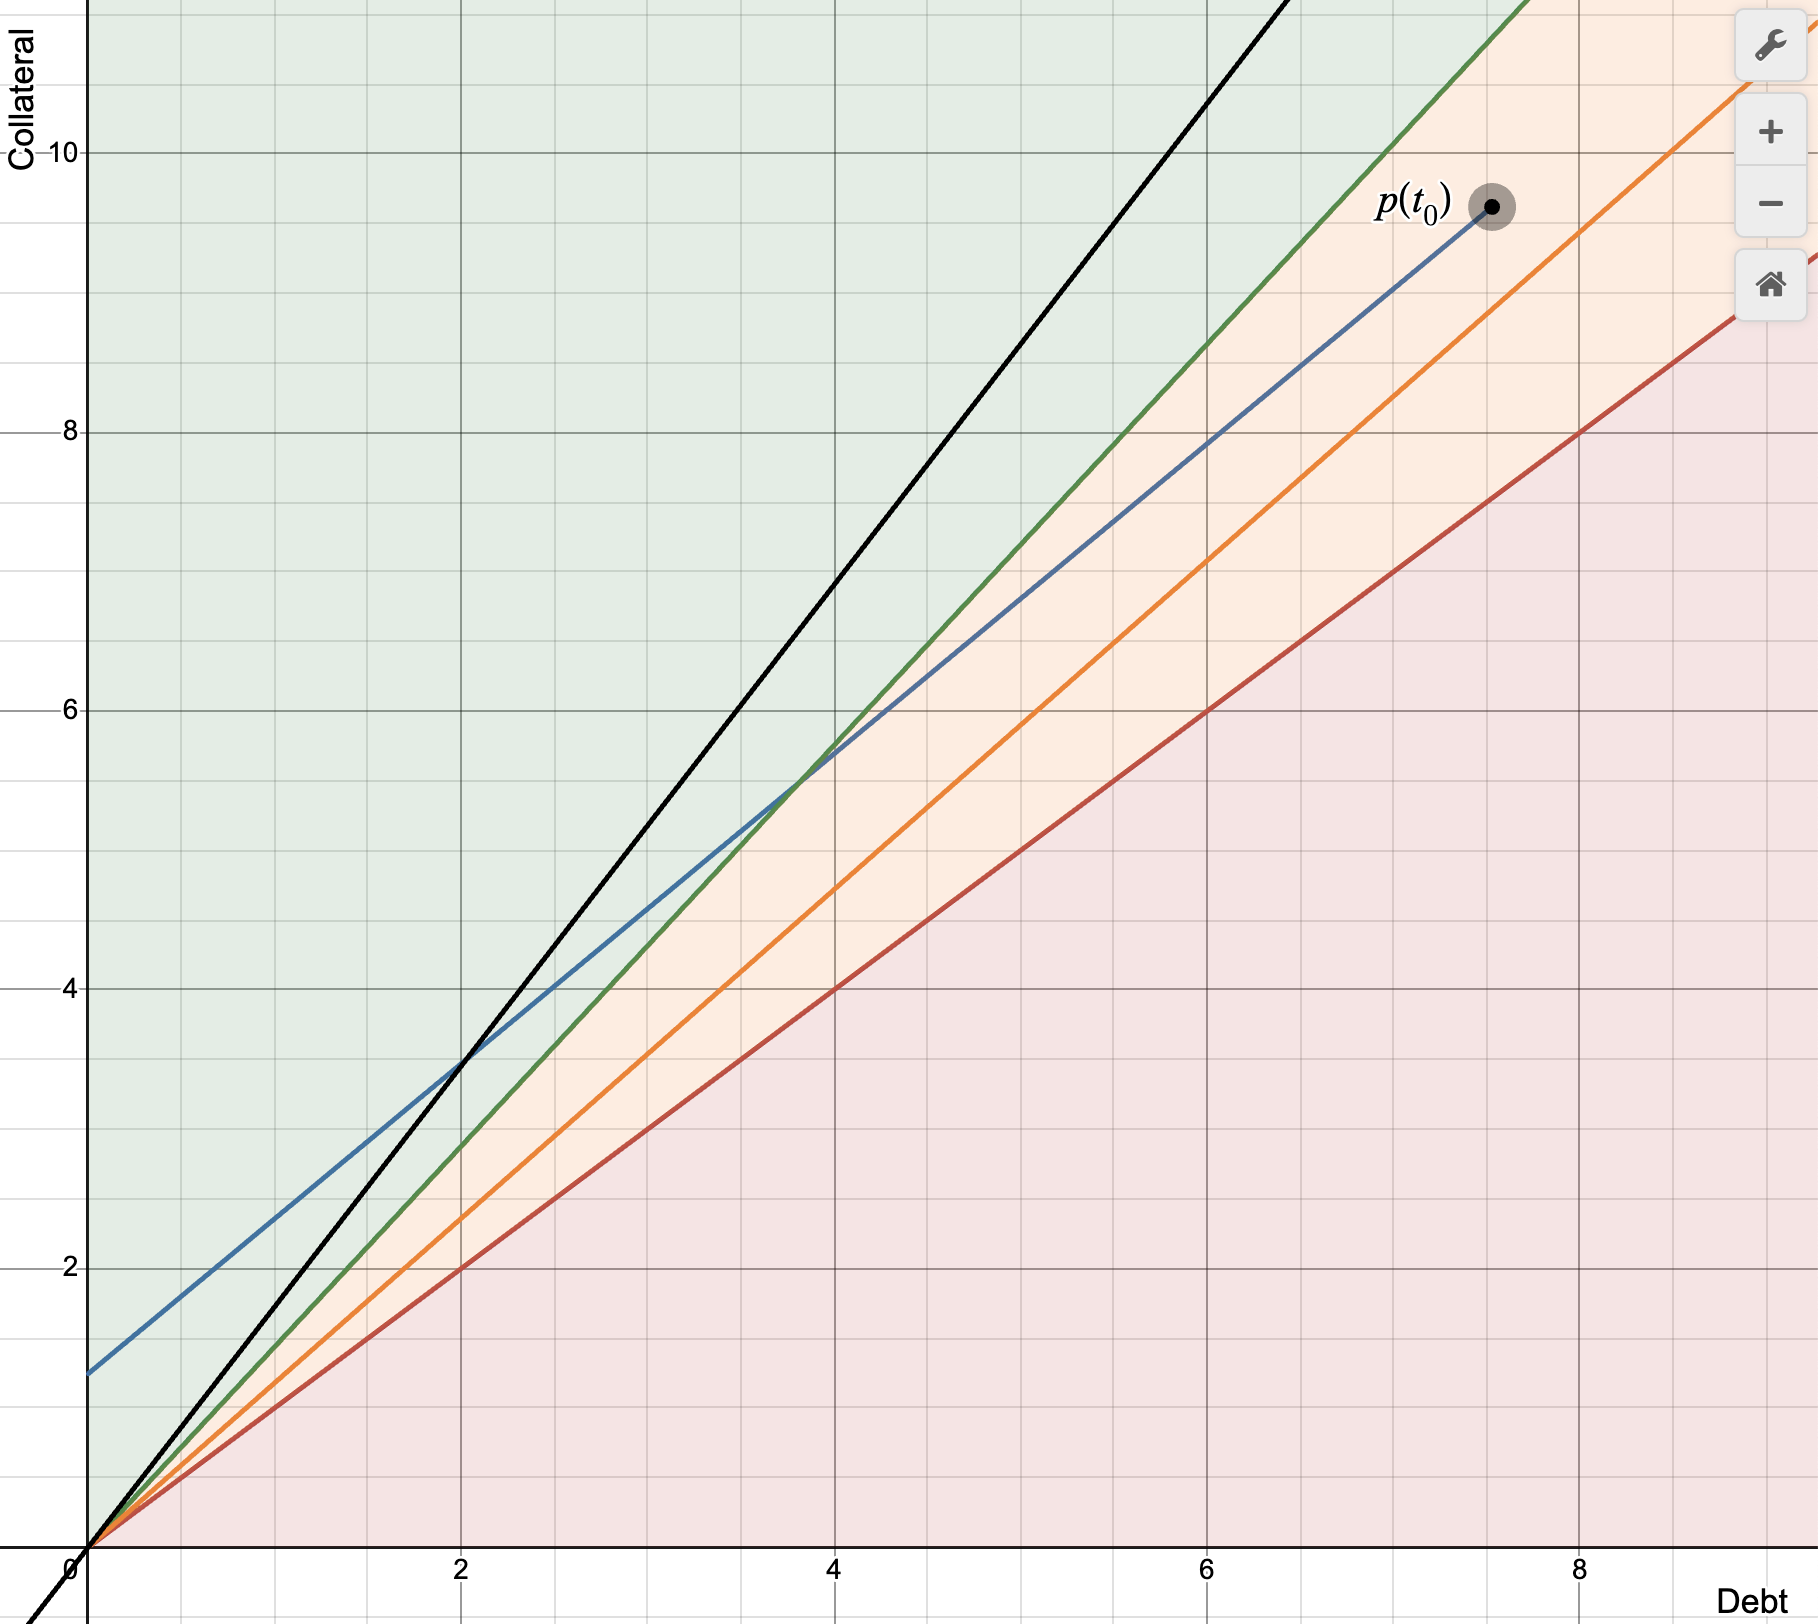
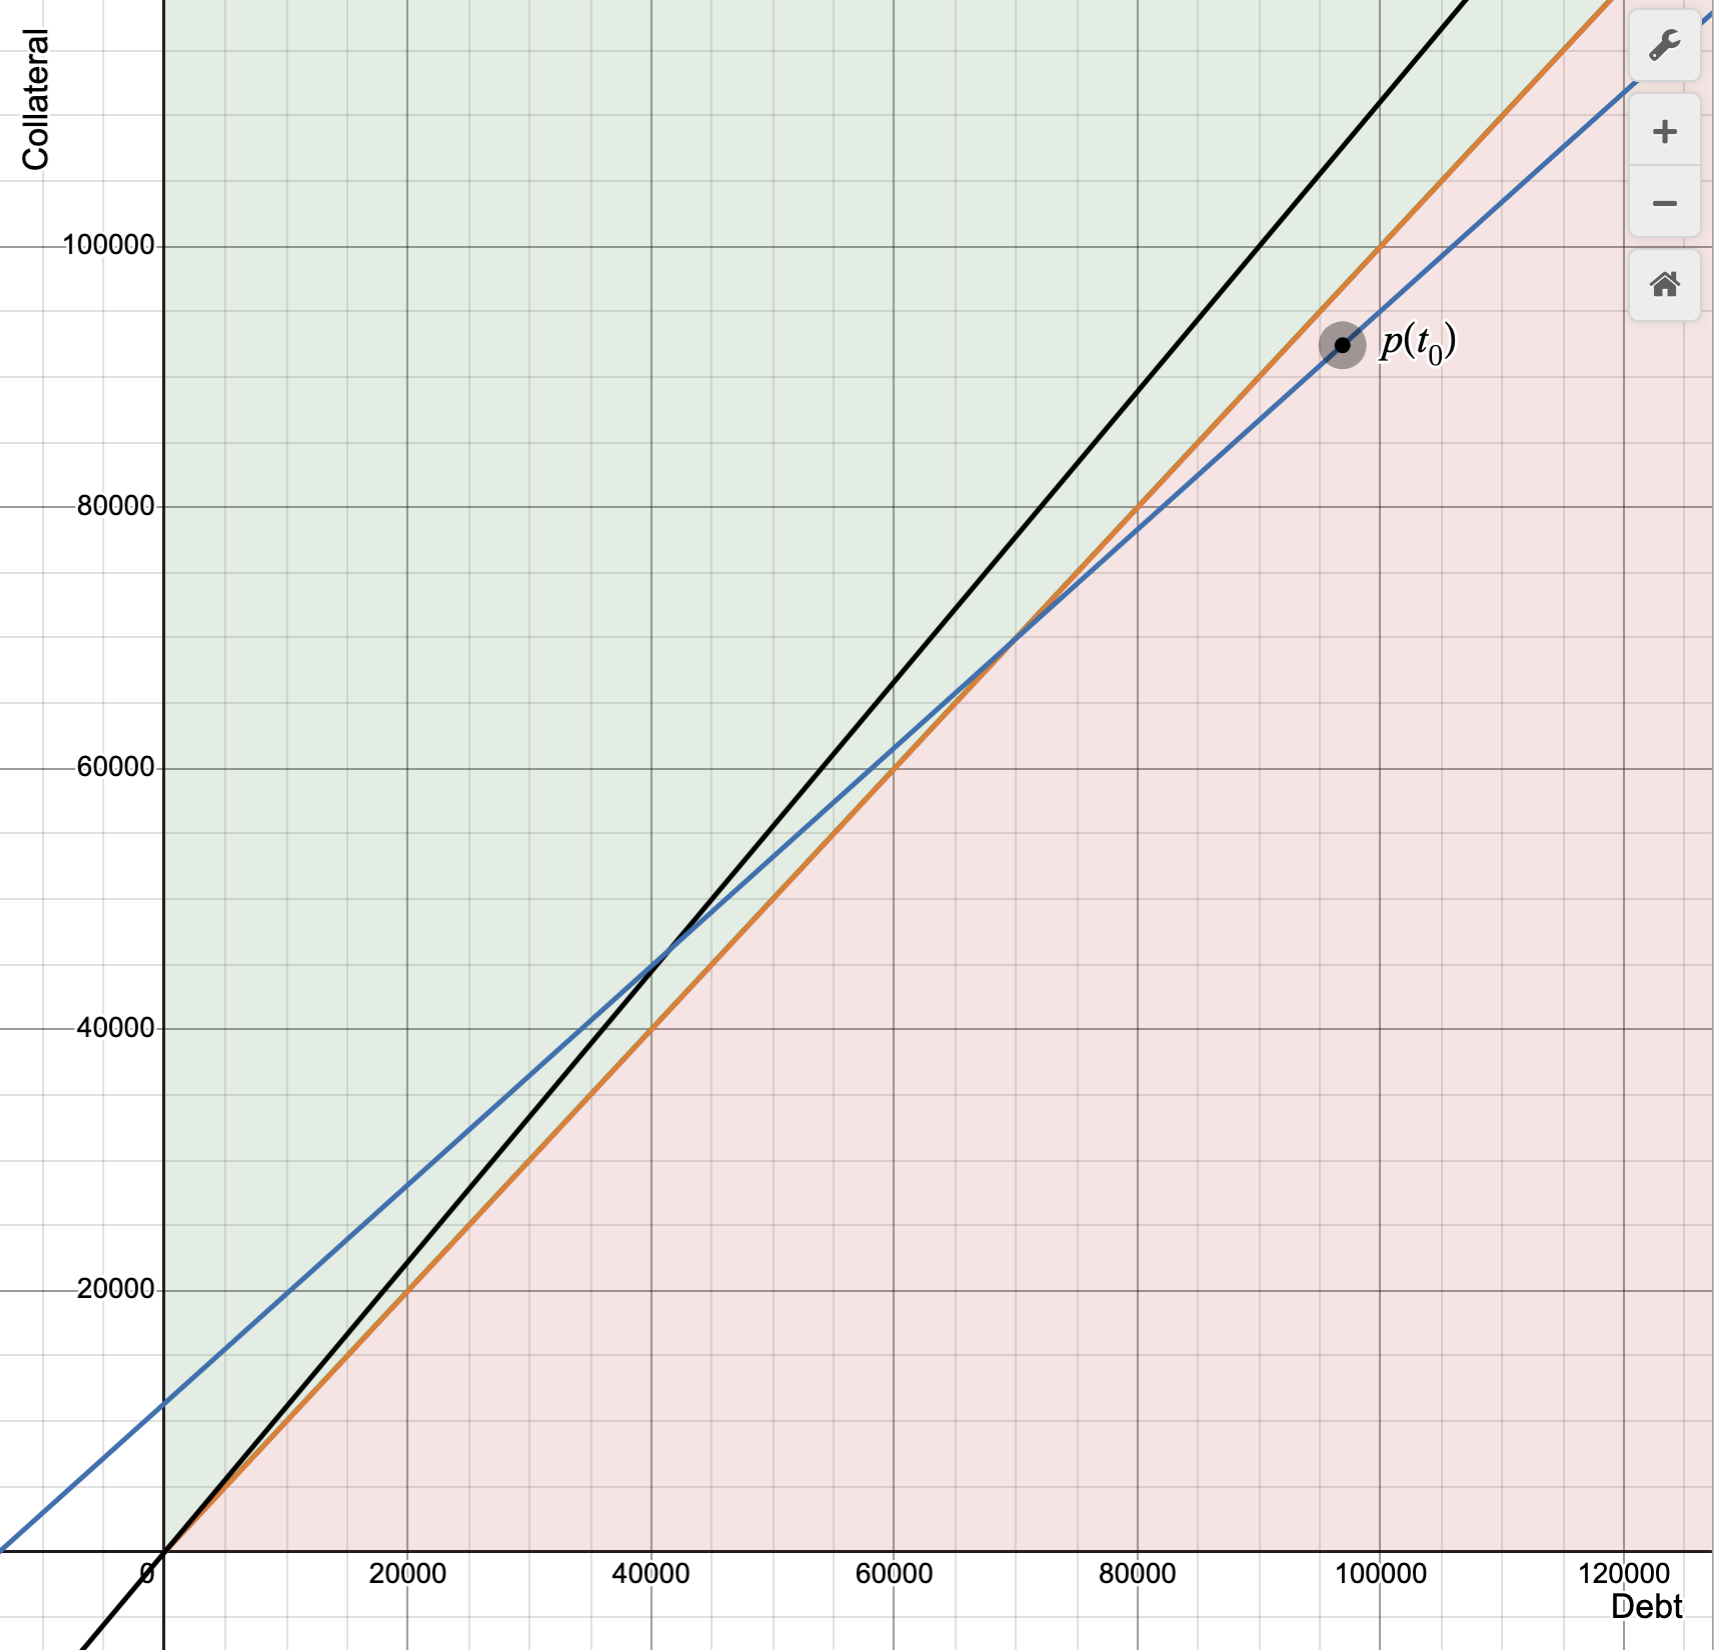
docs: correct liquidation math

diff --git a/dango/account-margin/src/execute.rs b/dango/account-margin/src/execute.rs
@@ -100,7 +100,7 @@ pub fn liquidate(ctx: MutableCtx, liquidation_denom: Denom) -> anyhow::Result<Re
     );
 
     // Calculate value of maximum repayable debt (MRD) to reach the target utilization rate.
-    // See derivation of the equation in (`liquidation-math.md`)[book/notes/liquidation-math.md].
+    // See derivation of the equation in [liquidation-math.md](book/notes/liquidation-math.md).
     let target_health_factor = app_cfg.target_utilization_rate.checked_inv()?;
     let liquidation_collateral_power = *app_cfg
         .collateral_powers

diff --git a/book/notes/liquidation-math.md b/book/notes/liquidation-math.md
@@ -25,11 +25,11 @@ Consider the below graph showing an undercollateralized margin account:
 
 ![undercollateralized margin account](./liquidation-graph.png)
 
-The x-axis represents the value of account's debt and the y-axis represents the value of account's collateral (not adjusted for the collateral power). The point $p(t_0)$ is the account's current status. Since it is below the green line, it is undercollateralized and eligible for liquidation. The blue line represents the trajectory of the liquidation. The black line represents all points at which the account's utilization rate is equal to the target utilization rate. The maximum repayable debt therefore is found at the intersection of the blue line and the black line.
+The x-axis represents the value of account's debt and the y-axis represents the value of account's collateral adjusted for the collateral power. The point $p(t_0)$ is the account's current status. Since it is below the orange line, it is undercollateralized and eligible for liquidation. The blue line represents the trajectory of the liquidation. The black line represents all points at which the account's utilization rate is equal to the target utilization rate. The maximum repayable debt therefore is found at the intersection of the blue line and the black line.
 
 ### Liquidation Trajectory
 
-To derive the equation for the liquidation trajectory, we can use the point slope form of the equation for a line:
+We can think of a user’s position at time t as a point p(t) = (d(t), c(t)) in the debt and adjusted collateral plane. To derive the equation for the liquidation trajectory, we can use the point slope form of the equation for a line:
 
 $$
 y - y_0 = m(x - x_0)
@@ -40,19 +40,21 @@ where $m$ is the slope or gradient of the line and $(x_0, y_0)$ is a point on th
 For a liquidation amount $a$, the gradient is given by
 
 $$
-\frac{\Delta d}{\Delta c} = \frac{d(t_1) - d(t_0)}{c(t_1) - c(t_0)} = \frac{c(t_0) - (1 + b(t_0))a - c(t_0)}{d(t0) − a − d(t0)} = 1 + b(t0)
+\frac{\Delta d}{\Delta c} = \frac{d(t_1) - d(t_0)}{c(t_1) - c(t_0)} = \frac{c(t_0) - (1 + b(t_0))va - c(t_0)}{d(t0) − a − d(t0)} = 1 + b(t0)v
 $$
+
+where $v$ is the collateral power of the liquidator's requested collateral denom.
 
 Therefore, we can rewrite the equation for the liquidation trajectory as:
 
 $$
-y - c = m(x - d) = (1 + b)(x - d)
+y - c = m(x - d) = (1 + b)v(x - d)
 $$
 
 which can be rewritten as:
 
 $$
-y = (1 + b)x + c - (1 + b)d
+y = (1 + b)vx + c - (1 + b)vd
 $$
 
 ### Target Health Factor
@@ -60,15 +62,15 @@ $$
 Since the health factor is the value of the collateral (adjusted for the collateral power) divided by the value of the debts, we can express it as:
 
 $$
-\mathrm{health\ factor} = \frac{y}{x} \cdot v
+\mathrm{health\ factor} = \frac{y}{x}
 $$
 
-where $y$ is the value of the collateral (not adjusted for the collateral power), $x$ is the value of the debts, and $v$ is the average collateral power.
+where $y$ is the value of the collateral adjusted for the collateral power, and $x$ is the value of the debts.
 
 Therefore, we can rewrite the equation for the line which defines all points at which the health factor is equal to the target health factor as:
 
 $$
-y = \frac{t \cdot x}{v}
+y = t \cdot x
 $$
 
 where $t$ is the target health factor.
@@ -78,35 +80,29 @@ where $t$ is the target health factor.
 The maximum repayable debt is found at the intersection of the liquidation trajectory and the line which defines all points at which the health factor is equal to the target health factor. To find this intersection, we set the two above equations equal to each other:
 
 $$
-\frac{t \cdot x}{v} = (1 + b)x + c - (1 + b)d
+t \cdot x = (1 + b)vx + c - (1 + b)vd
 $$
 
 Solving for $x$:
 
 $$
-t \cdot x = (1 + b)xv + cv - (1 + b)dv
+tx - (1 + b)vx = c - (1 + b)vd
 $$
 
 ...
 
 $$
-tx - (1 + b)xv = cv - (1 + b)dv
+(t - (1 + b)v)x = c - (1 + b)vd
 $$
 
 ...
 
 $$
-(t - (1 + b)v)x = cv - (1 + b)dv
-$$
-
-...
-
-$$
-x = \frac{(c - (1 + b)d)v}{t - (1 + b)v}
+x = \frac{c - (1 + b)vd}{t - (1 + b)v}
 $$
 
 This x defines the amount of debt after the liquidation if the new health factor is equal to the target health factor. Thus, the maximum repayable debt is equal to the prior debt minus this amount:
 
 $$
-\mathrm{max\ repayable\ debt} = d - x = d - \frac{(c - (1 + b)d)v}{t - (1 + b)v}
+\mathrm{max\ repayable\ debt} = d - x = d - \frac{c - (1 + b)vd}{t - (1 + b)v}
 $$
